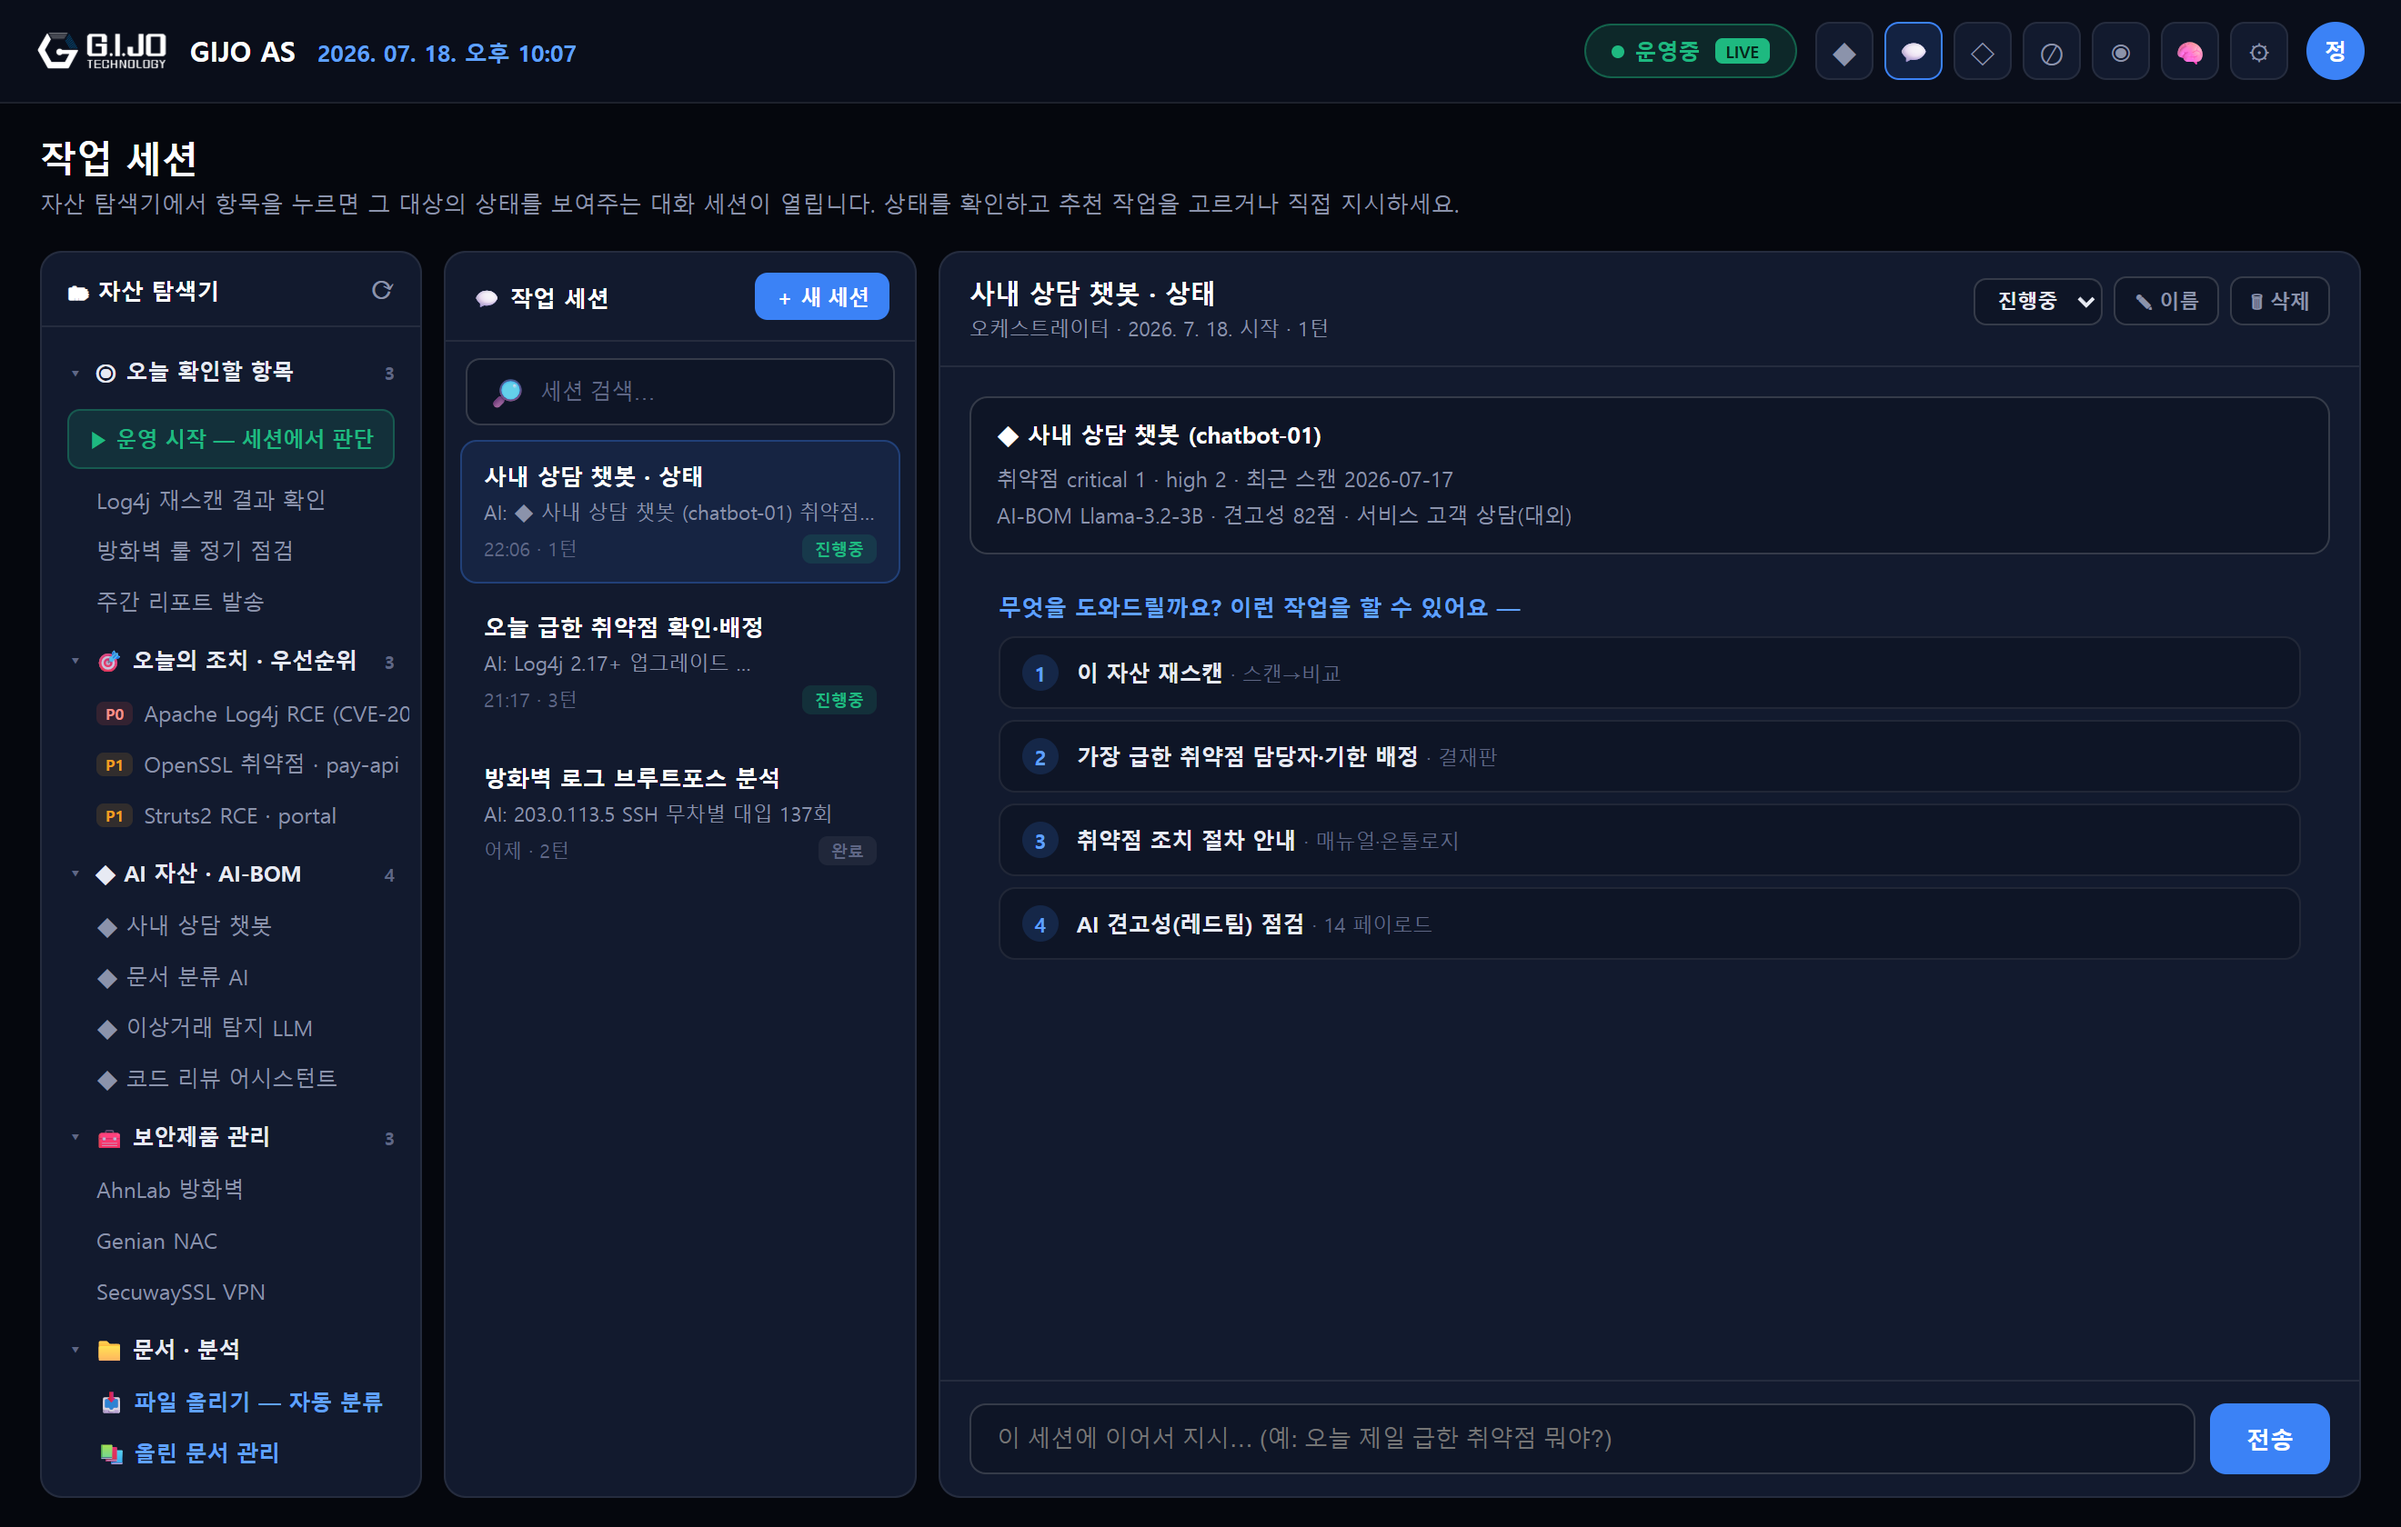
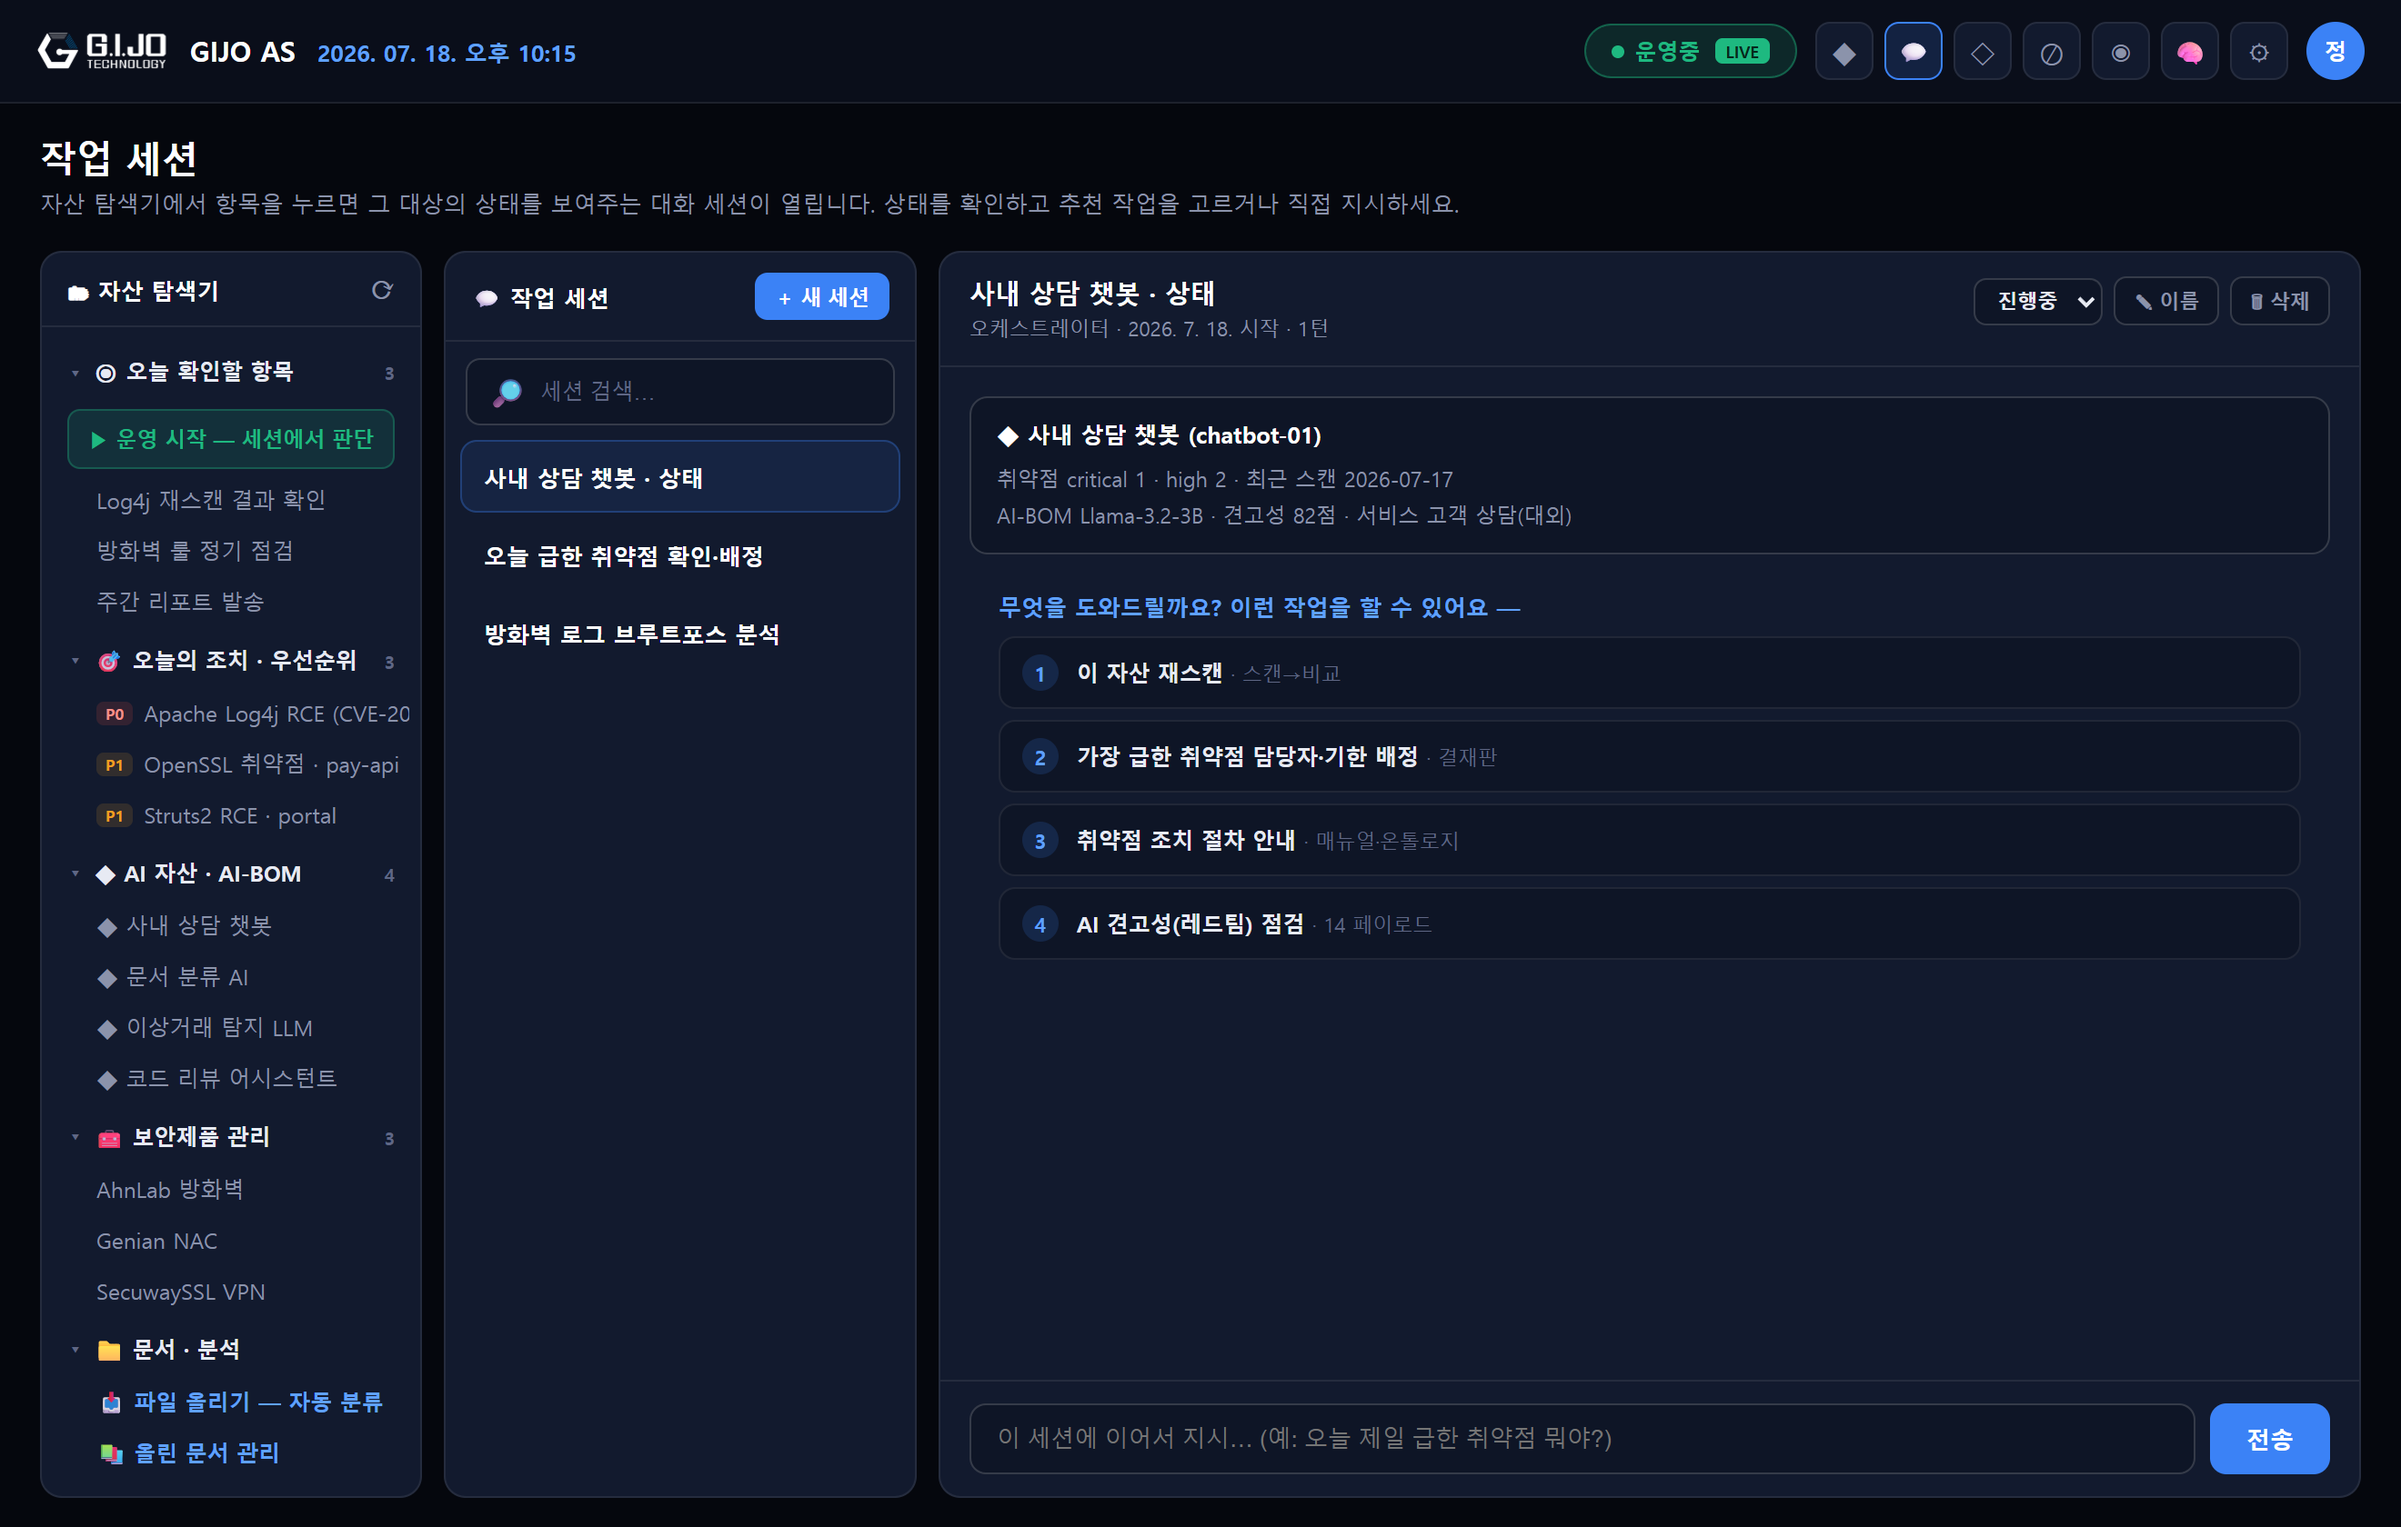
작업 세션 목록 간소화(제목만) + 목록에서 바로 삭제
- 세션 목록(작업세션 화면·대시보드 세션열)을 제목만 표시로 간소화 — 미리보기·턴수·상태태그 제거
- 각 항목 호버 시 🗑 노출 → 클릭하면 확인 후 삭제(목록에서 바로). 열려있던 세션 삭제 시 대화 영역 비움
- deleteSessionById(sessions.html)·deleteDashSession(dashboard) 추가, 헤더 삭제 버튼도 공통 함수 사용
- 실 렌더 캡처로 제목만·JS 오류 0 확인

diff --git a/client/src/renderer/pages/sessions.html b/client/src/renderer/pages/sessions.html
@@ -72,12 +72,13 @@
   .search input{flex:1;background:transparent;border:0;outline:none;color:var(--text);font-size:12px;}
   .search input::placeholder{color:var(--muted-2);}
   .slist{flex:1;overflow-y:auto;padding:4px 8px 10px;}
-  .sitem{padding:10px 12px;border-radius:9px;cursor:pointer;margin-bottom:4px;border:1px solid transparent;}
+  .sitem{padding:9px 10px 9px 12px;border-radius:9px;cursor:pointer;margin-bottom:3px;border:1px solid transparent;display:flex;align-items:center;gap:8px;}
   .sitem:hover{background:var(--panel-2);}
   .sitem.on{background:rgba(59,130,246,0.1);border-color:rgba(59,130,246,0.3);}
-  .sitem .t{font-weight:700;font-size:12.5px;color:#fff;white-space:nowrap;overflow:hidden;text-overflow:ellipsis;}
-  .sitem .l{font-size:11px;color:var(--muted);margin-top:4px;white-space:nowrap;overflow:hidden;text-overflow:ellipsis;}
-  .sitem .m{font-size:10.5px;color:var(--muted-2);margin-top:5px;display:flex;justify-content:space-between;align-items:center;gap:6px;}
+  .sitem .t{flex:1;min-width:0;font-weight:700;font-size:12.5px;color:#fff;white-space:nowrap;overflow:hidden;text-overflow:ellipsis;}
+  .sitem .sdel{flex-shrink:0;font-size:12px;color:var(--muted-2);opacity:0;cursor:pointer;padding:2px 4px;border-radius:5px;}
+  .sitem:hover .sdel{opacity:.8;}
+  .sitem .sdel:hover{opacity:1;color:#f5928a;background:rgba(226,72,61,0.12);}
   .tag{font-size:9px;font-weight:800;padding:2px 7px;border-radius:5px;flex-shrink:0;}
   .tag.active{color:var(--teal);background:rgba(30,185,128,0.14);}
   .tag.done{color:var(--muted-2);background:rgba(255,255,255,0.06);}
@@ -263,15 +264,17 @@
         : `<div class="list-empty">아직 세션이 없습니다.<br>＋ 새 세션으로 시작하세요.</div>`;
       return;
     }
+    // 간단하게 — 제목만. 각 항목에서 바로 삭제(🗑) 가능.
     sessionListEl.innerHTML = filtered.map((s) => {
-      const preview = s.lastPreview ? `${s.lastRole === "user" ? "" : "AI: "}${esc(s.lastPreview)}` : "새 대화 — 지시를 입력하세요";
       return `<div class="sitem ${s.id === currentId ? "on" : ""}" data-id="${s.id}">
-        <div class="t">${esc(s.title)}</div>
-        <div class="l">${preview}</div>
-        <div class="m"><span>${fmtTime(s.updatedAt)} · ${s.turnCount}턴</span><span class="tag ${s.status}">${STATUS_LABEL[s.status] || s.status}</span></div>
+        <span class="t">${esc(s.title)}</span>
+        <span class="sdel" data-del="${s.id}" title="세션 삭제">🗑</span>
       </div>`;
     }).join("");
-    sessionListEl.querySelectorAll(".sitem").forEach((el) => el.addEventListener("click", () => openSession(el.dataset.id)));
+    sessionListEl.querySelectorAll(".sitem").forEach((el) => el.addEventListener("click", (e) => {
+      if (e.target.closest(".sdel")) { e.stopPropagation(); deleteSessionById(el.dataset.id); return; }
+      openSession(el.dataset.id);
+    }));
   }
   async function loadSessions(selectFirst) {
     try {
@@ -400,18 +403,22 @@
     try { await window.gijo.updateWorkSession(currentId, { status: e.target.value }); await loadSessions(false); }
     catch (err) { alert("상태 변경 실패: " + (err && err.message || err)); }
   }
-  async function deleteSession() {
-    if (!currentId) return;
+  // 목록·헤더 어디서든 세션을 삭제한다. 열려 있던 세션을 지우면 대화 영역을 비운다.
+  async function deleteSessionById(id) {
+    if (!id) return;
     if (!confirm("이 세션과 대화를 삭제할까요? 되돌릴 수 없습니다.")) return;
     try {
-      await window.gijo.deleteWorkSession(currentId);
-      currentId = null; currentSession = null;
-      convHead.style.display = "none";
-      convEl.innerHTML = ""; convEl.appendChild(convEmpty); convEmpty.style.display = "flex";
-      chatInput.disabled = true; sendBtn.disabled = true;
-      await loadSessions(true);
+      await window.gijo.deleteWorkSession(id);
+      if (currentId === id) {
+        currentId = null; currentSession = null;
+        convHead.style.display = "none";
+        convEl.innerHTML = ""; convEl.appendChild(convEmpty); convEmpty.style.display = "flex";
+        chatInput.disabled = true; sendBtn.disabled = true;
+      }
+      await loadSessions(false);
     } catch (e) { alert("삭제 실패: " + (e && e.message || e)); }
   }
+  function deleteSession() { deleteSessionById(currentId); } // 헤더 🗑 버튼
 
   async function init() {
     tick(); setInterval(tick, 30000);

diff --git a/client/src/renderer/pages/dashboard.html b/client/src/renderer/pages/dashboard.html
@@ -43,14 +43,12 @@
   .dash-sessions .dsh-t{font-size:12px;font-weight:700;color:var(--text);}
   .dash-new{background:var(--blue);color:#fff;border:0;border-radius:6px;font-size:11px;font-weight:700;padding:4px 9px;cursor:pointer;}
   .dash-slist{flex:1;overflow-y:auto;padding:2px 8px 8px;}
-  .dash-sitem{padding:8px 10px;border-radius:8px;cursor:pointer;border:1px solid transparent;margin-bottom:3px;}
+  .dash-sitem{padding:8px 8px 8px 10px;border-radius:8px;cursor:pointer;border:1px solid transparent;margin-bottom:2px;display:flex;align-items:center;gap:8px;}
   .dash-sitem:hover{background:var(--panel-2);}
-  .dash-sitem .t{font-weight:700;font-size:12px;color:#fff;white-space:nowrap;overflow:hidden;text-overflow:ellipsis;}
-  .dash-sitem .l{font-size:10.5px;color:var(--muted);margin-top:3px;white-space:nowrap;overflow:hidden;text-overflow:ellipsis;}
-  .dash-sitem .m{font-size:9.5px;color:var(--muted-2);margin-top:4px;display:flex;justify-content:space-between;}
-  .dash-stag{font-size:8.5px;font-weight:800;padding:1px 5px;border-radius:4px;}
-  .dash-stag.active{color:var(--teal);background:rgba(30,185,128,.14);}
-  .dash-stag.done,.dash-stag.ignored{color:var(--muted-2);background:rgba(255,255,255,.06);}
+  .dash-sitem .t{flex:1;min-width:0;font-weight:700;font-size:12px;color:#fff;white-space:nowrap;overflow:hidden;text-overflow:ellipsis;}
+  .dash-sdel{flex-shrink:0;font-size:11px;color:var(--muted-2);opacity:0;cursor:pointer;padding:2px 4px;border-radius:5px;}
+  .dash-sitem:hover .dash-sdel{opacity:.8;}
+  .dash-sdel:hover{opacity:1;color:#f5928a;background:rgba(226,72,61,.12);}
   .dash-sfull{padding:9px 12px;border-top:1px solid var(--border);font-size:11px;color:var(--blue-light);font-weight:700;cursor:pointer;text-align:center;}
   .dash-sfull:hover{background:var(--panel-2);}
   .explorer-title{display:flex;align-items:center;justify-content:space-between;font-size:12px;font-weight:700;color:var(--text);margin-bottom:3px;}
@@ -1345,15 +1343,21 @@
         box.innerHTML = '<div style="font-size:11px;color:var(--muted-2);padding:10px 6px;line-height:1.6">아직 세션이 없습니다.<br>＋ 새 세션 또는 전체 화면의 탐색기 항목을 눌러 시작하세요.</div>';
         return;
       }
+      // 간단하게 — 제목만. 각 항목에서 바로 삭제(🗑) 가능.
       box.innerHTML = list.slice(0, 15).map((s) => {
-        const prev = s.lastPreview ? escT(s.lastPreview) : "새 대화";
-        return `<div class="dash-sitem" data-id="${s.id}"><div class="t">${escT(s.title)}</div><div class="l">${prev}</div>` +
-          `<div class="m"><span>${s.turnCount}턴</span><span class="dash-stag ${s.status}">${DASH_STATUS_LABEL[s.status] || s.status}</span></div></div>`;
+        return `<div class="dash-sitem" data-id="${s.id}"><span class="t">${escT(s.title)}</span><span class="dash-sdel" data-del="${s.id}" title="세션 삭제">🗑</span></div>`;
       }).join("");
-      box.querySelectorAll(".dash-sitem").forEach((el) => el.addEventListener("click", () => openSessionPage(el.dataset.id)));
+      box.querySelectorAll(".dash-sitem").forEach((el) => el.addEventListener("click", (e) => {
+        if (e.target.closest(".dash-sdel")) { e.stopPropagation(); deleteDashSession(el.dataset.id); return; }
+        openSessionPage(el.dataset.id);
+      }));
     } catch (e) {
       box.innerHTML = '<div style="font-size:11px;color:var(--muted-2);padding:8px">세션을 불러오지 못했습니다</div>';
     }
+  }
+  async function deleteDashSession(id) {
+    if (!confirm("이 세션과 대화를 삭제할까요? 되돌릴 수 없습니다.")) return;
+    try { await window.gijo.deleteWorkSession(id); await loadDashSessions(); } catch (e) { alert("삭제 실패: " + (e && e.message || e)); }
   }
   function openSessionPage(id) {
     try { localStorage.setItem("gijo:sessions:open", id); } catch (e) {}
